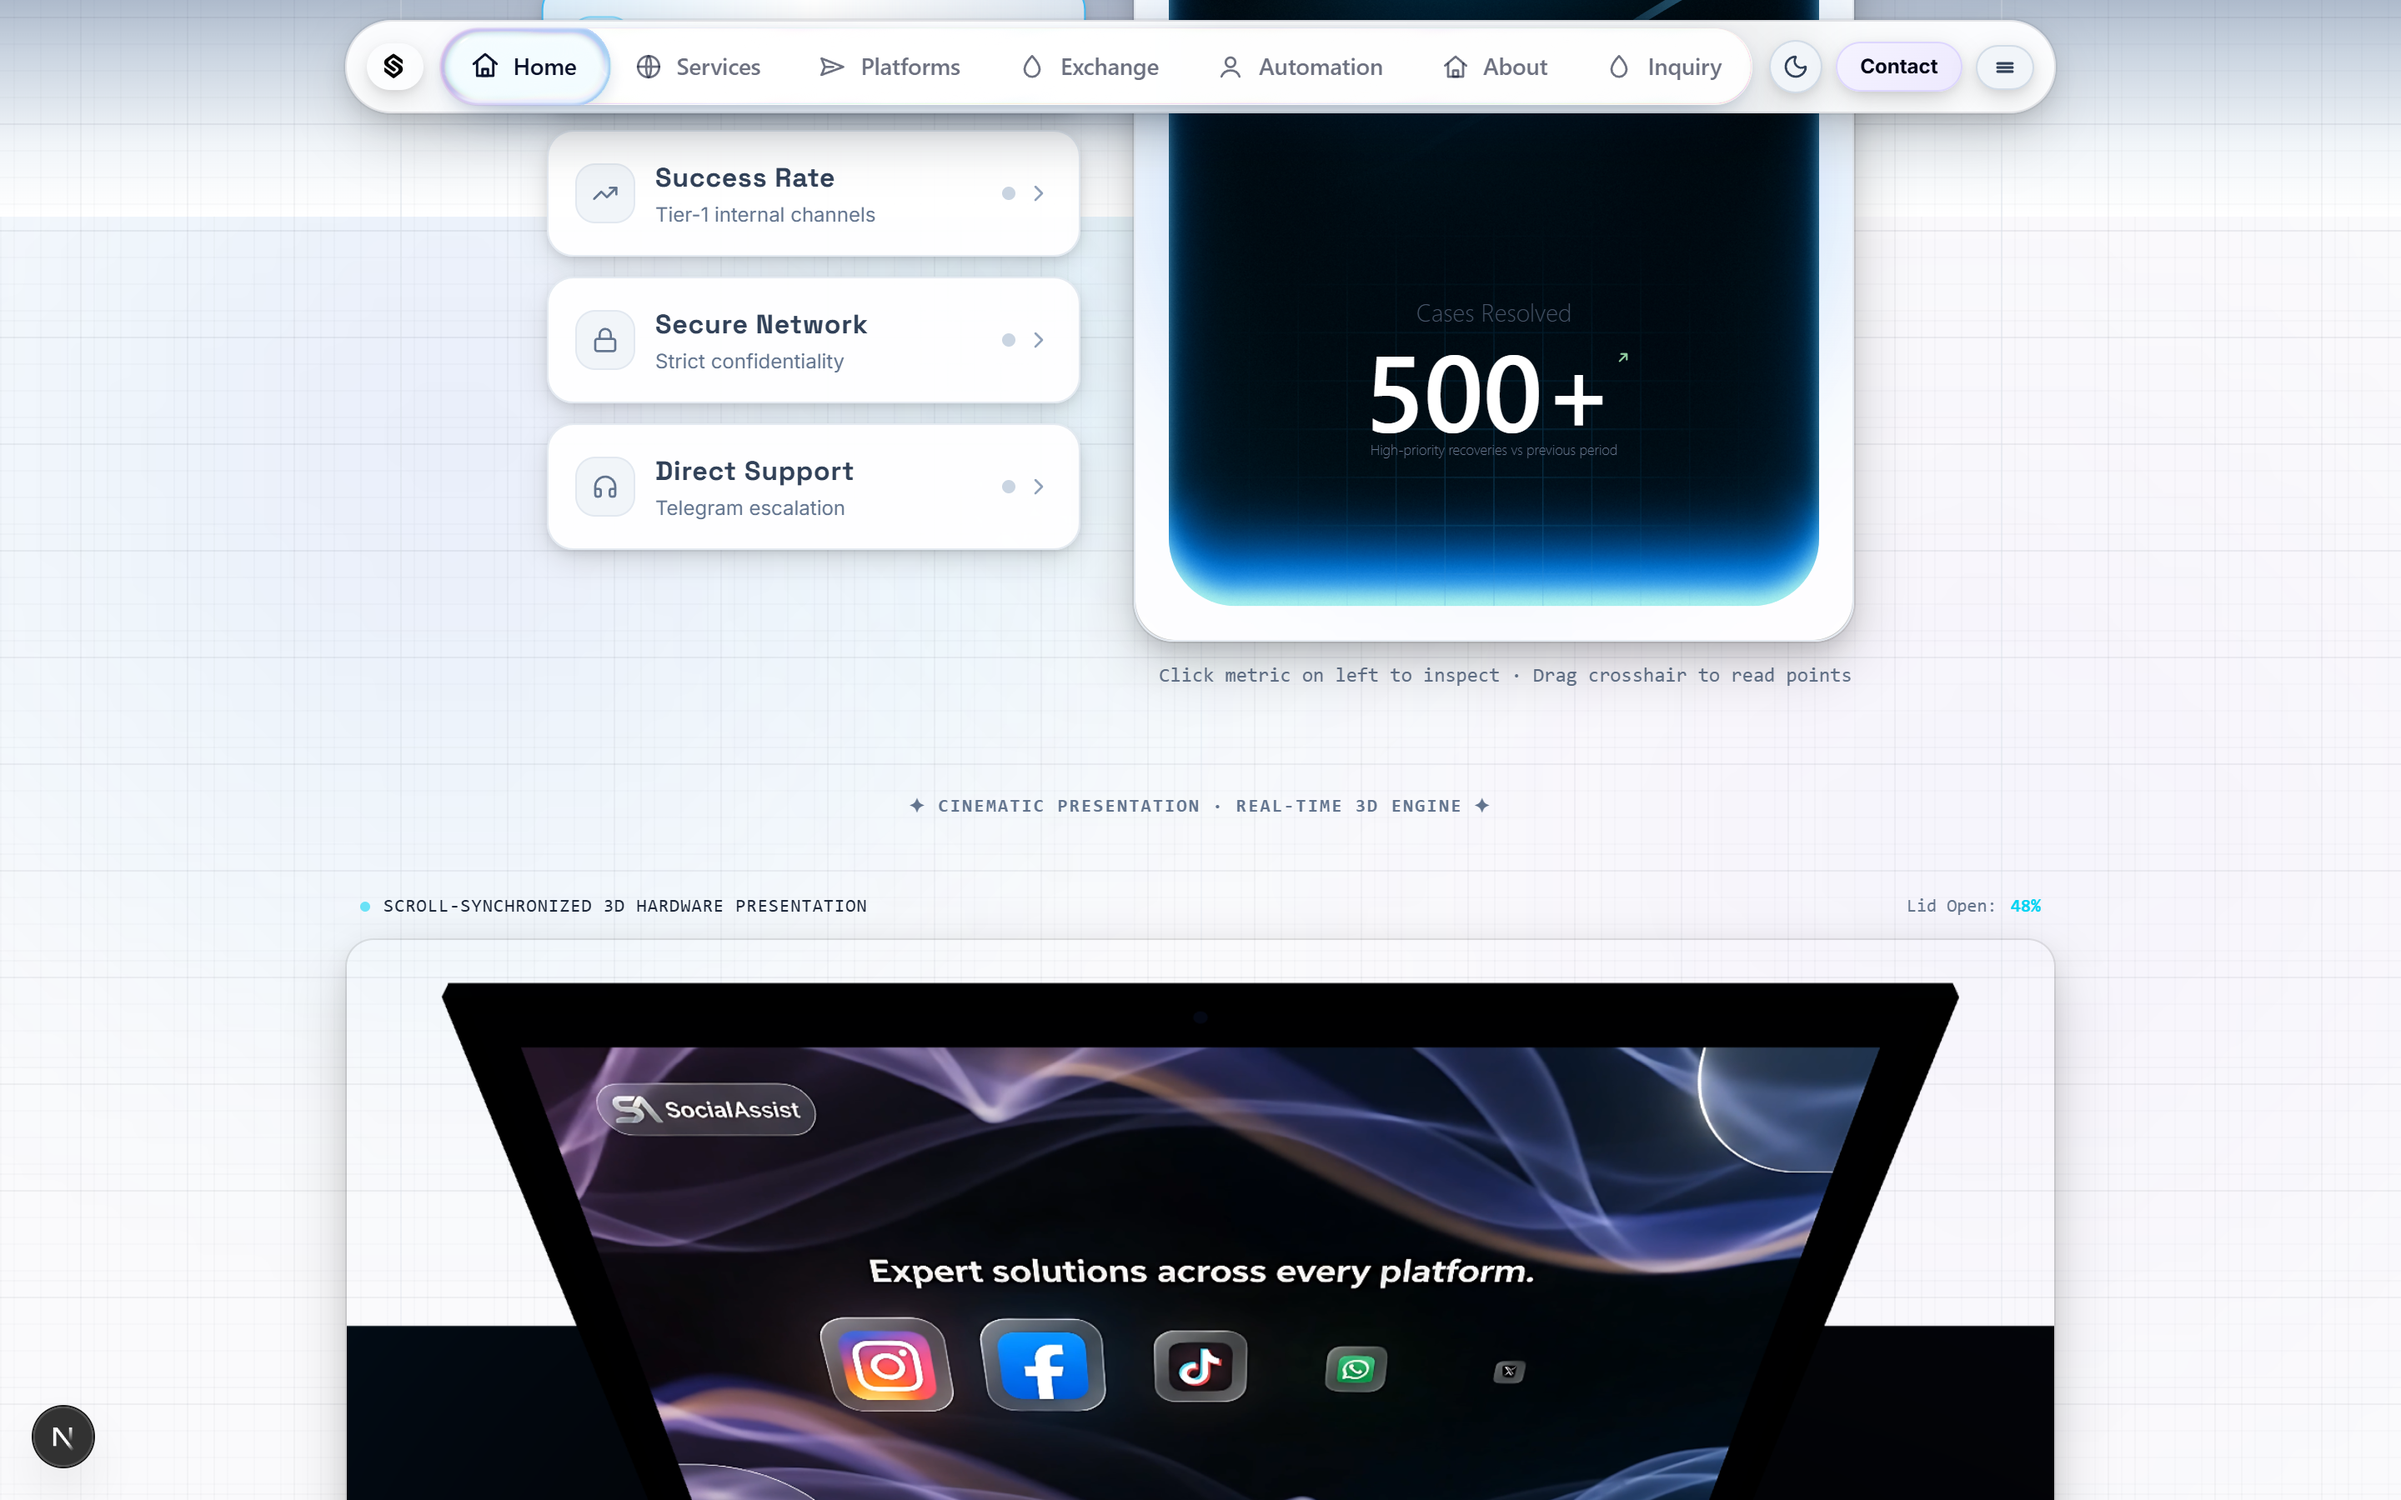
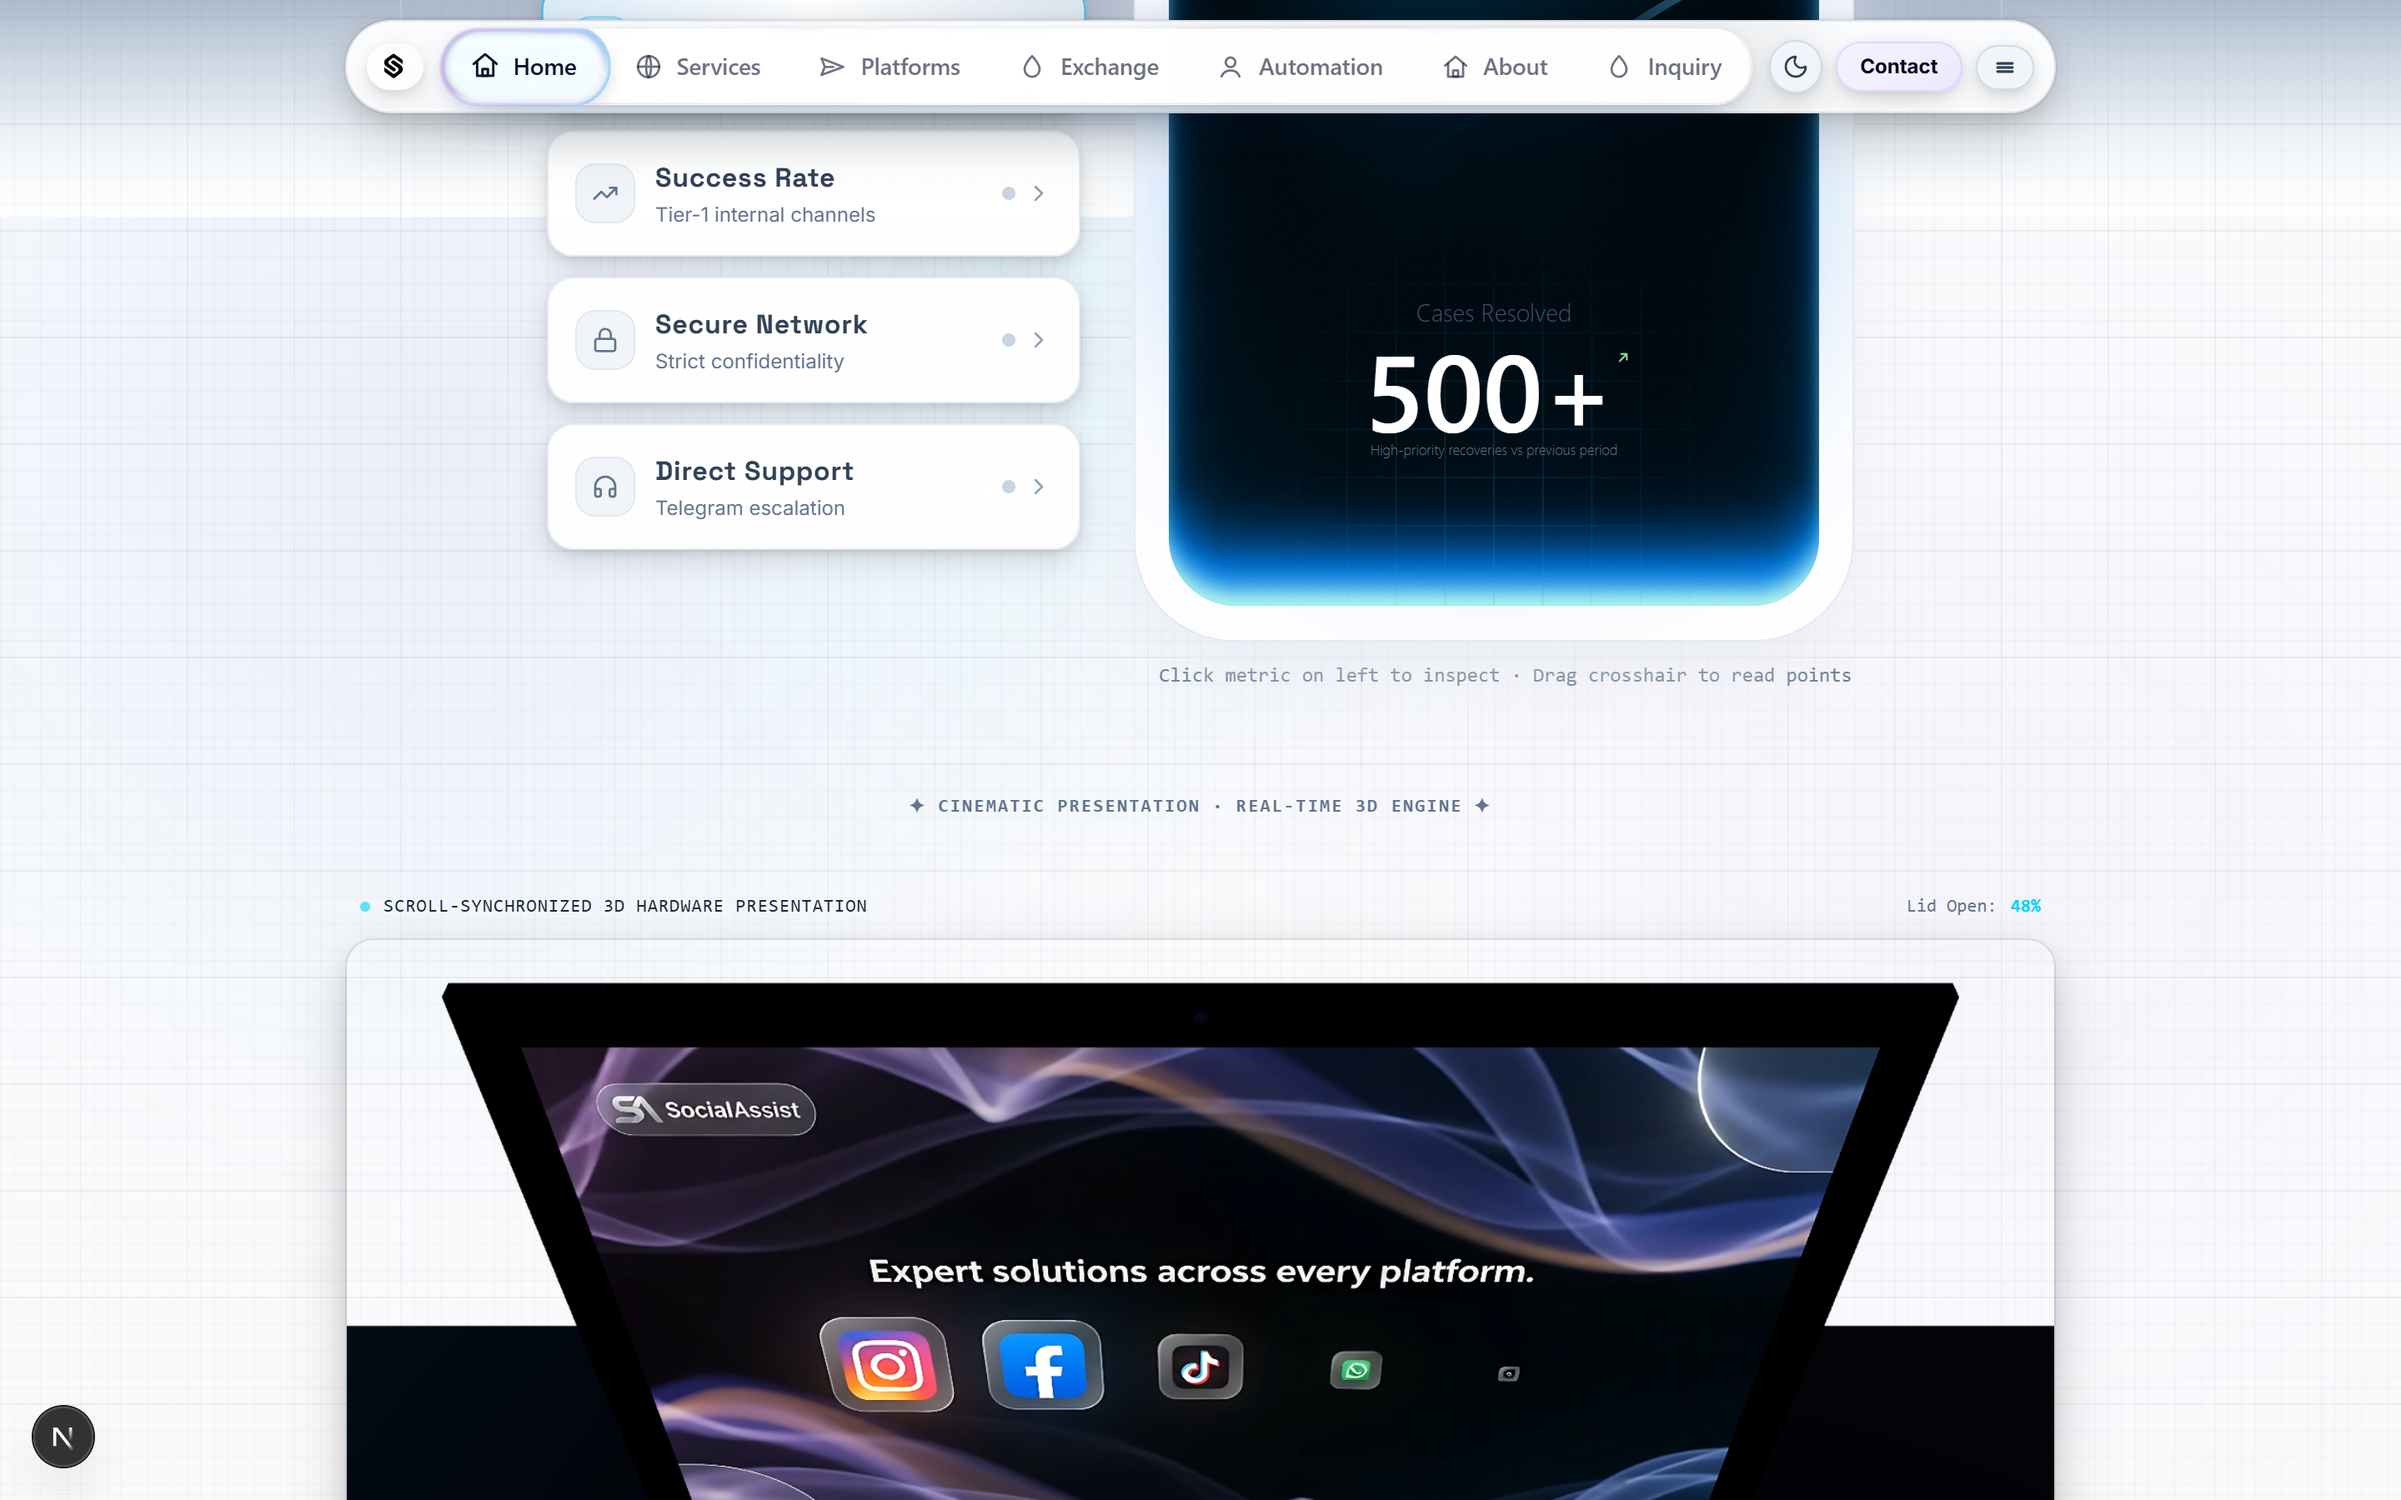
fix(design): apply concentric squircle corner radius (60px desktop, 48px mobile) to outer white container matching inner PeakChart curvature

diff --git a/src/components/AnimatedStatistics.tsx b/src/components/AnimatedStatistics.tsx
@@ -290,20 +290,24 @@ export default function AnimatedStatistics() {
           Morphs smoothly on click with Louis Studios glow, Steffen curve, peak dot, and period selector
         */}
         <div className="flex flex-col items-center">
-          {/* Outer White Container with Mathematically Equal Spacing on all 4 Sides */}
+          {/* Outer White Container with Mathematically Equal Spacing and Concentric Pillowy Rounded Corners */}
           <div
             data-stat-chart-card=""
-            className={`relative rounded-3xl border backdrop-blur-2xl flex items-center justify-center overflow-hidden p-4 sm:p-5 ${
+            className={`relative border backdrop-blur-2xl flex items-center justify-center overflow-hidden p-4 sm:p-5 rounded-[48px] sm:rounded-[58px] md:rounded-[60px] ${
               isLight
                 ? "border-slate-200/90 bg-white/95 shadow-2xl shadow-slate-200/80"
                 : "border-white/10 bg-[#070B14]/90 shadow-2xl shadow-black/80"
             }`}
-            style={{ boxSizing: "border-box" }}
+            style={{
+              boxSizing: "border-box",
+              borderRadius: `${Math.round((56 * chartWidth) / 540 + (chartWidth <= 320 ? 16 : 20))}px`,
+            }}
           >
-            {/* Subtle Dynamic Ambient Glow — Centered at 50% 50% for True Vertical/Horizontal Symmetry */}
+            {/* Subtle Dynamic Ambient Glow — Centered with matching inherited radius */}
             <div
-              className="absolute inset-0 pointer-events-none rounded-3xl transition-all duration-700"
+              className="absolute inset-0 pointer-events-none transition-all duration-700"
               style={{
+                borderRadius: "inherit",
                 background: `radial-gradient(circle at 50% 50%, ${activeStat.accent}18 0%, transparent 70%)`,
               }}
             />
